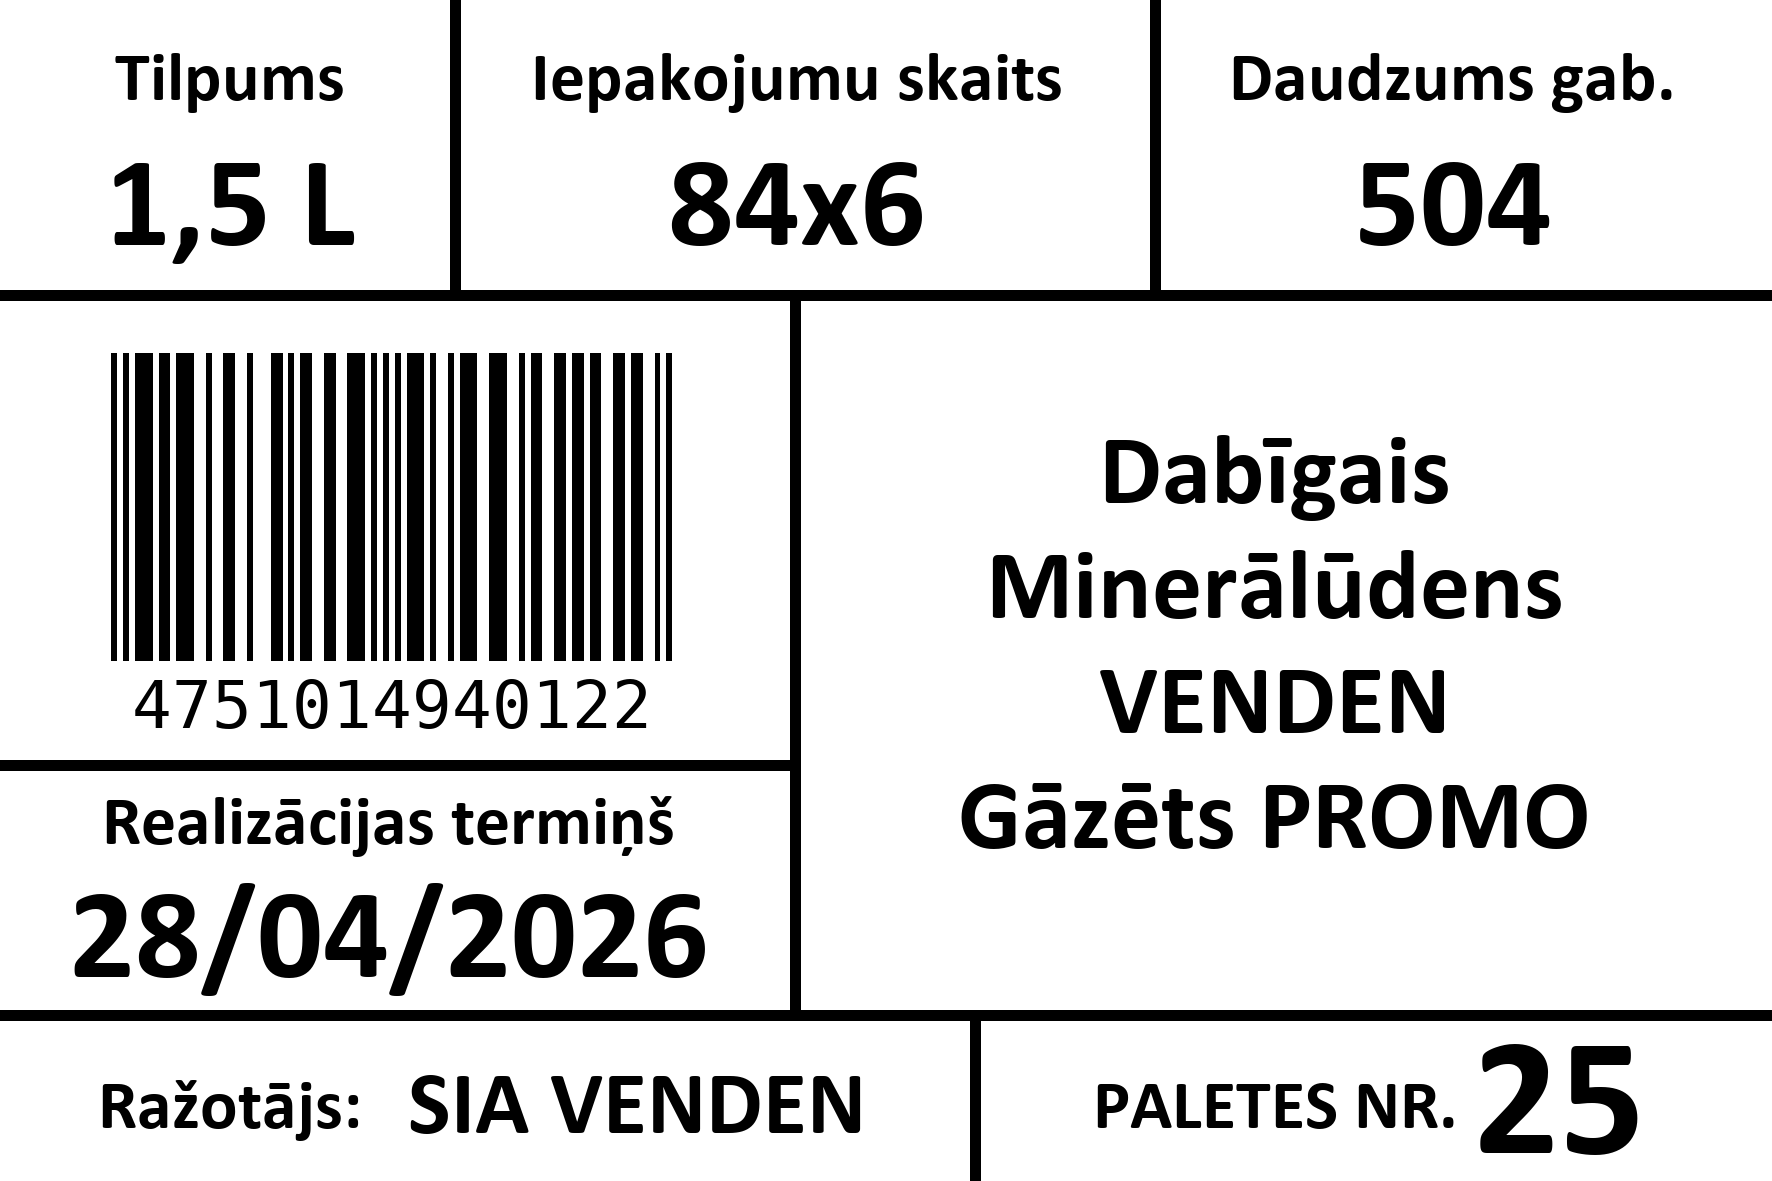
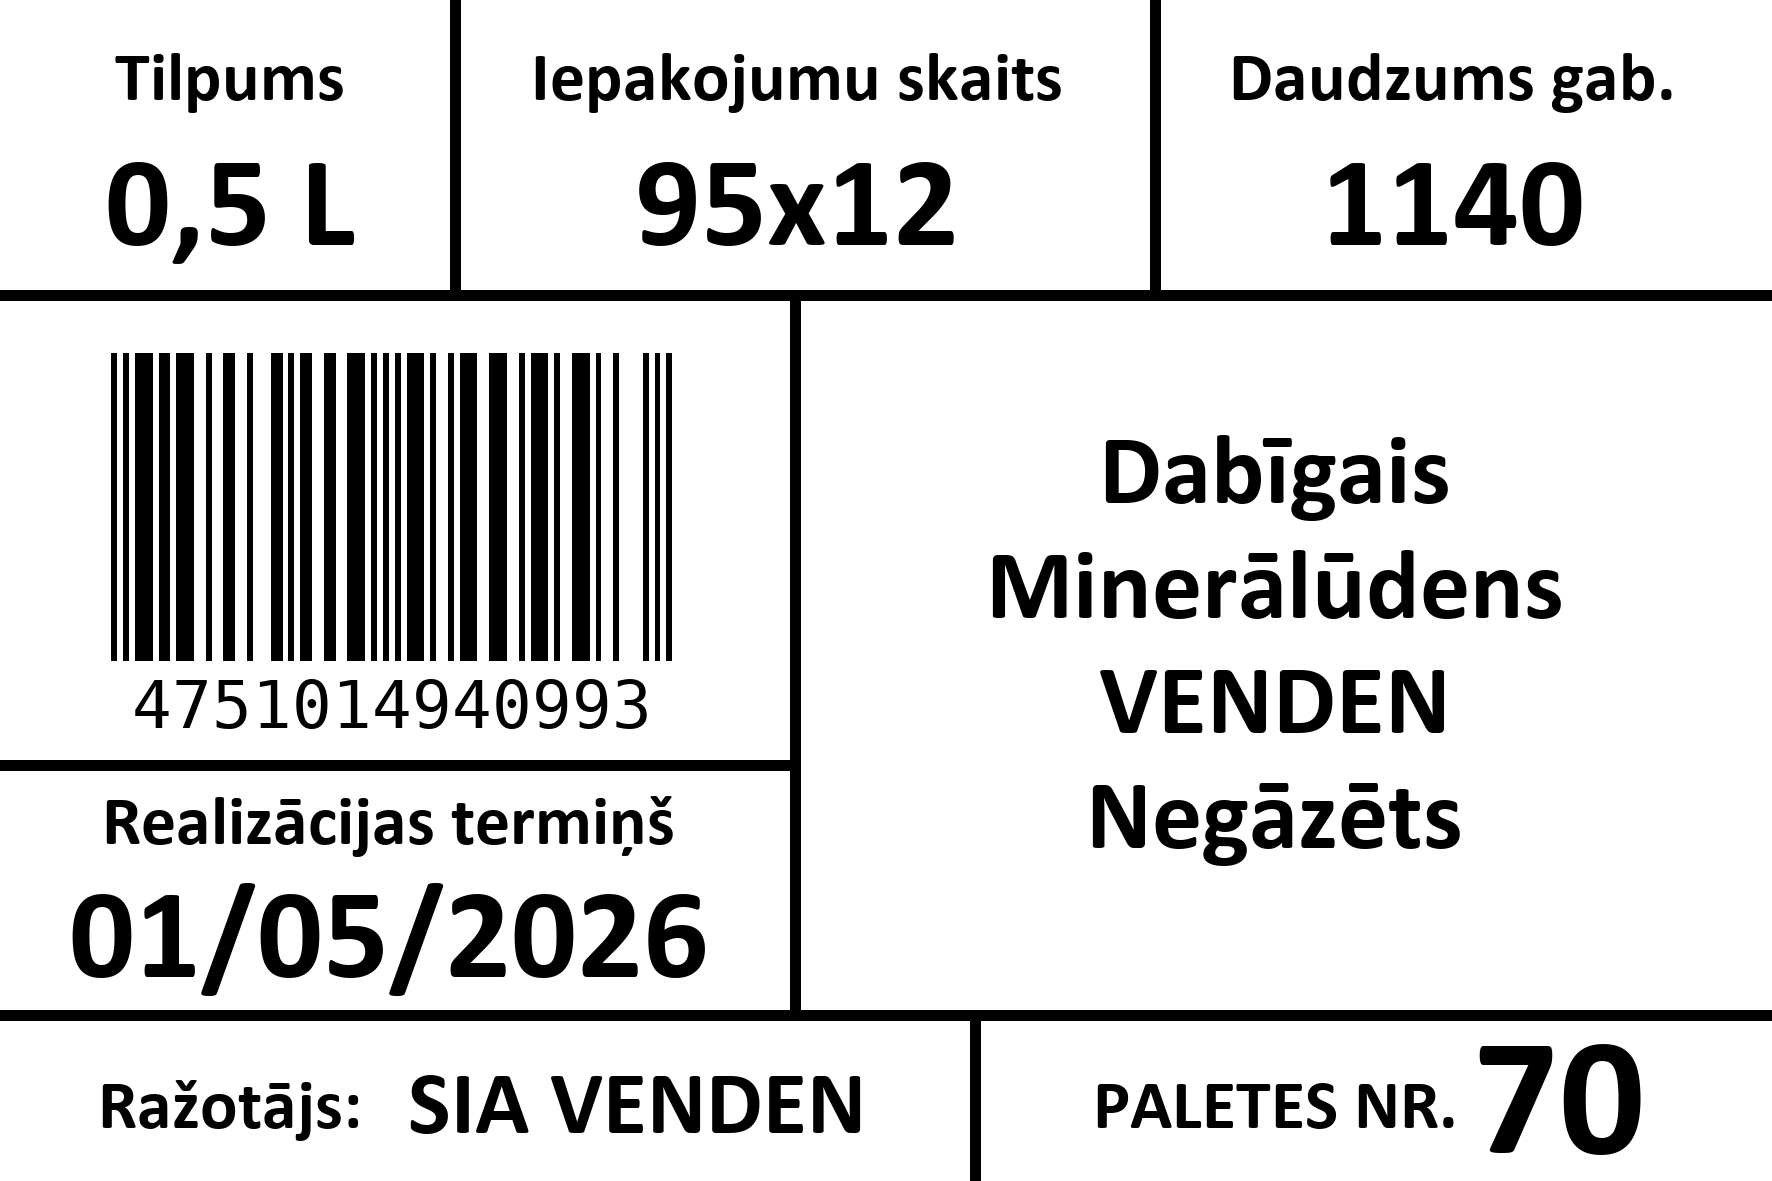
palaista printēšana un izņemtas detaļas par oee no standarta linkiem

diff --git a/paletprint/main.py b/paletprint/main.py
@@ -105,8 +105,8 @@ def printit():
         # Replace dot with comma for volume and append " L".
         Tilpums = str(ProductData[0][2]).replace(".", ",") + " L"
         # Calculate packaging details as count x packaging size.
-        Iepakojumi = str(int(ProductData[0][14] / ProductData[0][12])) + "x" + str(int(ProductData[0][12]))
-        Daudzums = str(int(ProductData[0][14]))
+        Iepakojumi = str(int(InitCheck[i][2] / ProductData[0][12])) + "x" + str(int(ProductData[0][12]))
+        Daudzums = str(InitCheck[i][2])
         Razotajs = "SIA VENDEN"  # Hardcoded manufacturer name.
         PaletesNr = str(SequentialNumber)
         Svitrkods = str(ProductData[0][18])

diff --git a/backend/views/site/index.php b/backend/views/site/index.php
@@ -12,7 +12,7 @@ $this->title = 'Kontroles Panelis';
             ['title'=>'Paletes Šodien kopā','value'=>$totalToday,       'bg'=>'primary'],
             ['title'=>'SKU','value'=>$uniqueProducts,       'bg'=>'success'],
             ['title'=>'Paletes / stundā','value'=>$palletsPerHour,         'bg'=>'info'],
-            ['title'=>'Overall OEE','value'=>$overallOee!==null? "{$overallOee}%" : '–', 'bg'=>'danger'],
+            // ['title'=>'Overall OEE','value'=>$overallOee!==null? "{$overallOee}%" : '–', 'bg'=>'danger'],
         ];?>
         <?php foreach($cards as $c): ?>
         <div class="col-lg-3 col-md-6 mb-3">

diff --git a/backend/views/layouts/main.php b/backend/views/layouts/main.php
@@ -43,7 +43,7 @@ AppAsset::register($this);
     } else {
         $menuItems[] = ['label' => 'Paletes', 'url' => ['/paletes/index', 'sort' => '-DatumsLaiks']];
         $menuItems[] = ['label' => 'Produkti', 'url' => ['/produkti/index']];
-        $menuItems[] = ['label' => 'Statistika', 'url' => ['/statistics/index']];
+        // $menuItems[] = ['label' => 'Statistika', 'url' => ['/statistics/index']];
     }
     if (Yii::$app->user->isGuest) {
         $menuItems[] = ['label' => 'Login', 'url' => ['/site/login']];

diff --git a/backend/views/paletes/index.php b/backend/views/paletes/index.php
@@ -59,7 +59,7 @@ $gridColumns = [
     'ProduktiPalete',
     'DatumsLaiks',
     'PaletesID',
-    'RealizacijasTermins',
+    // 'RealizacijasTermins',
     'IsPrinted',
 
     [
